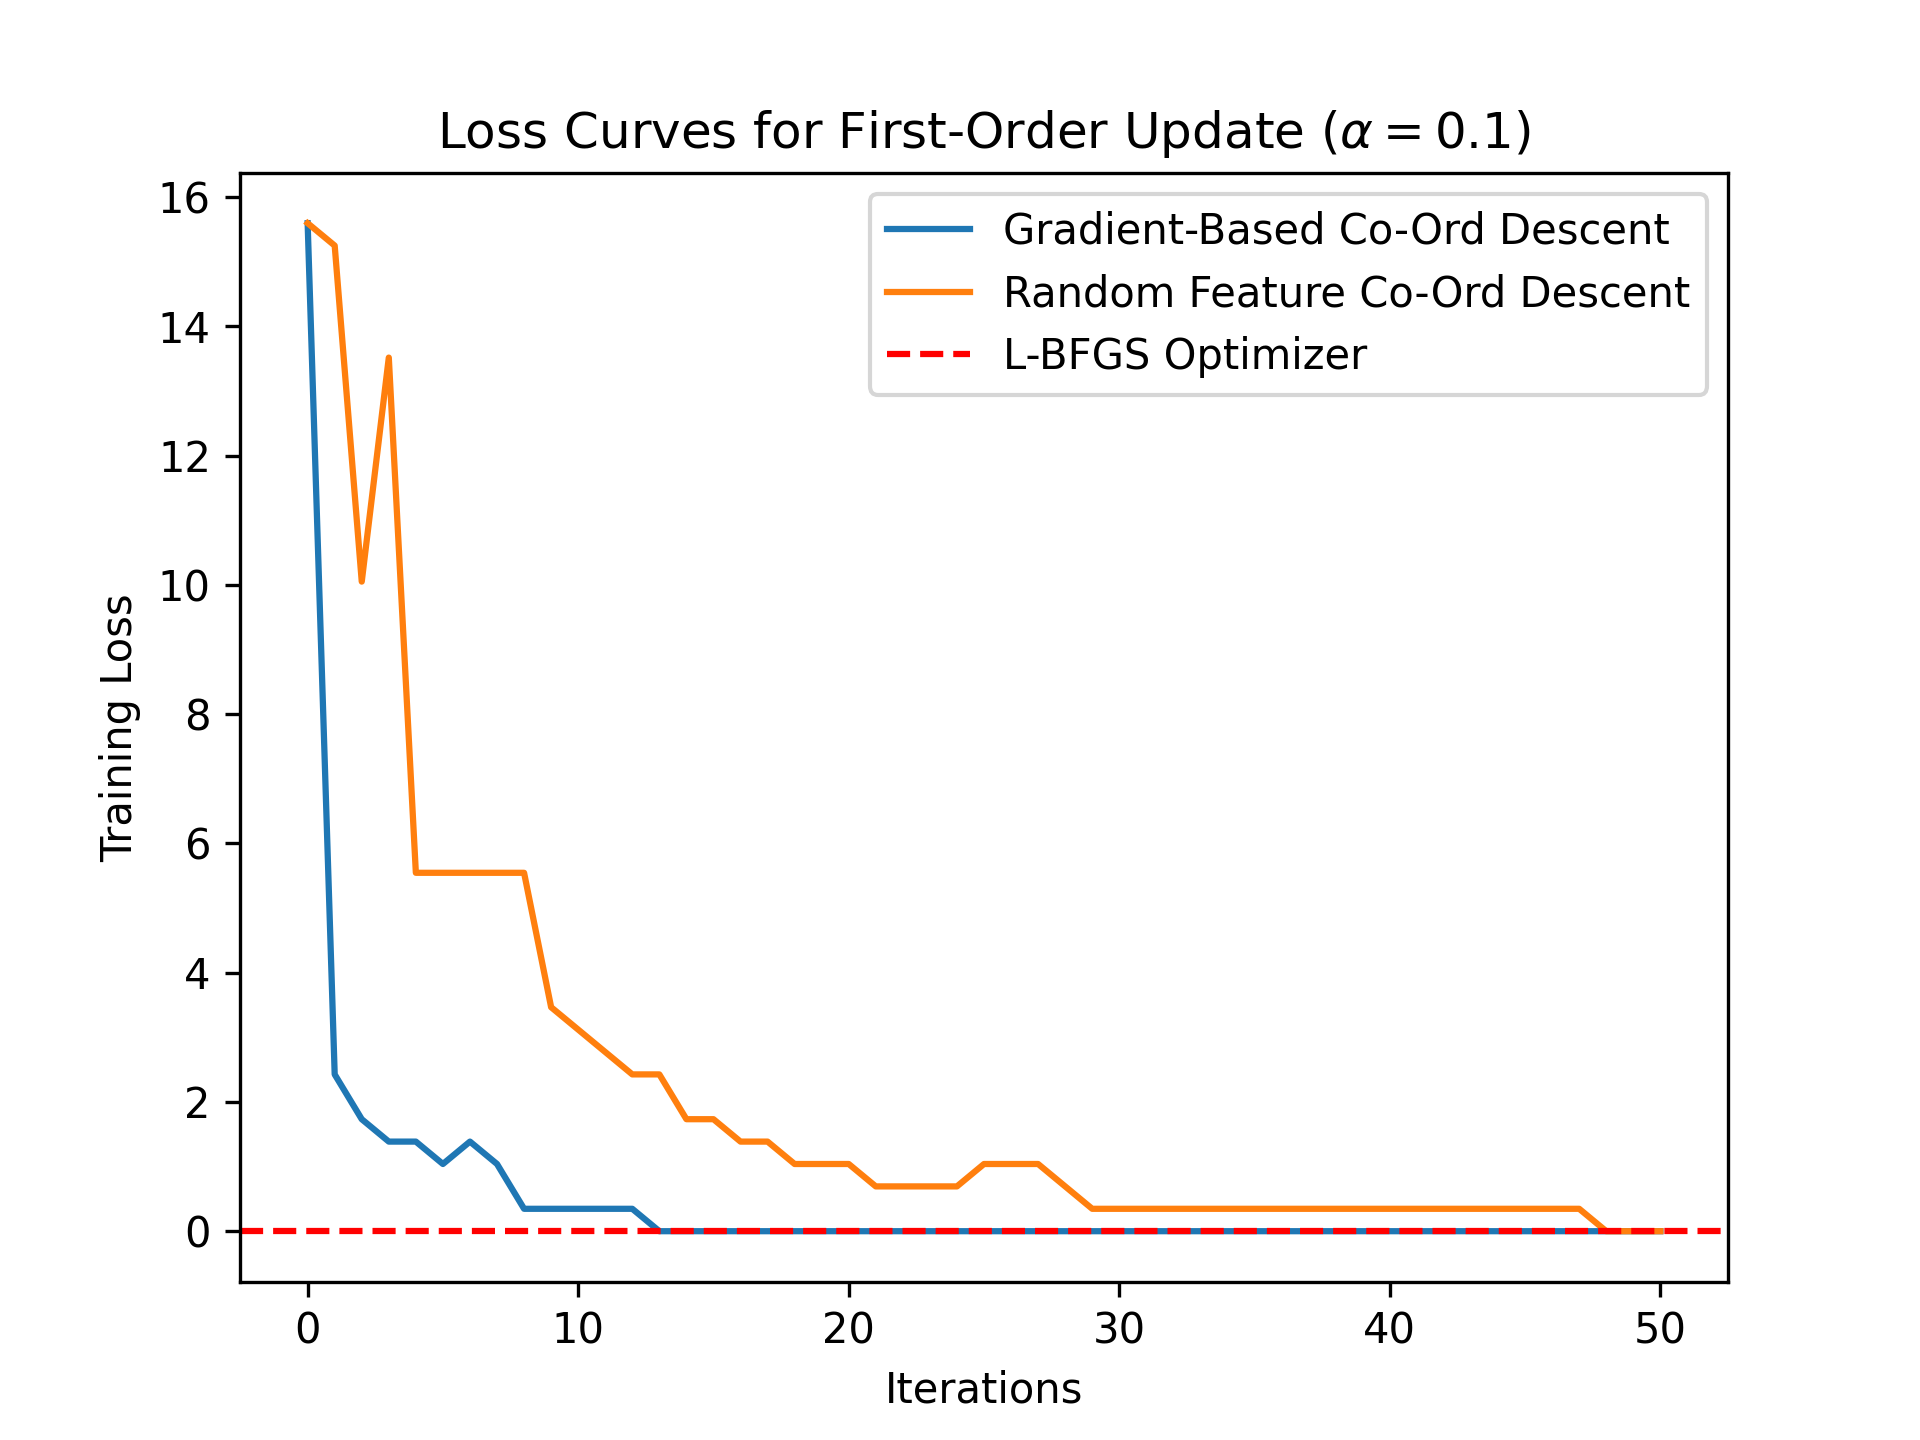
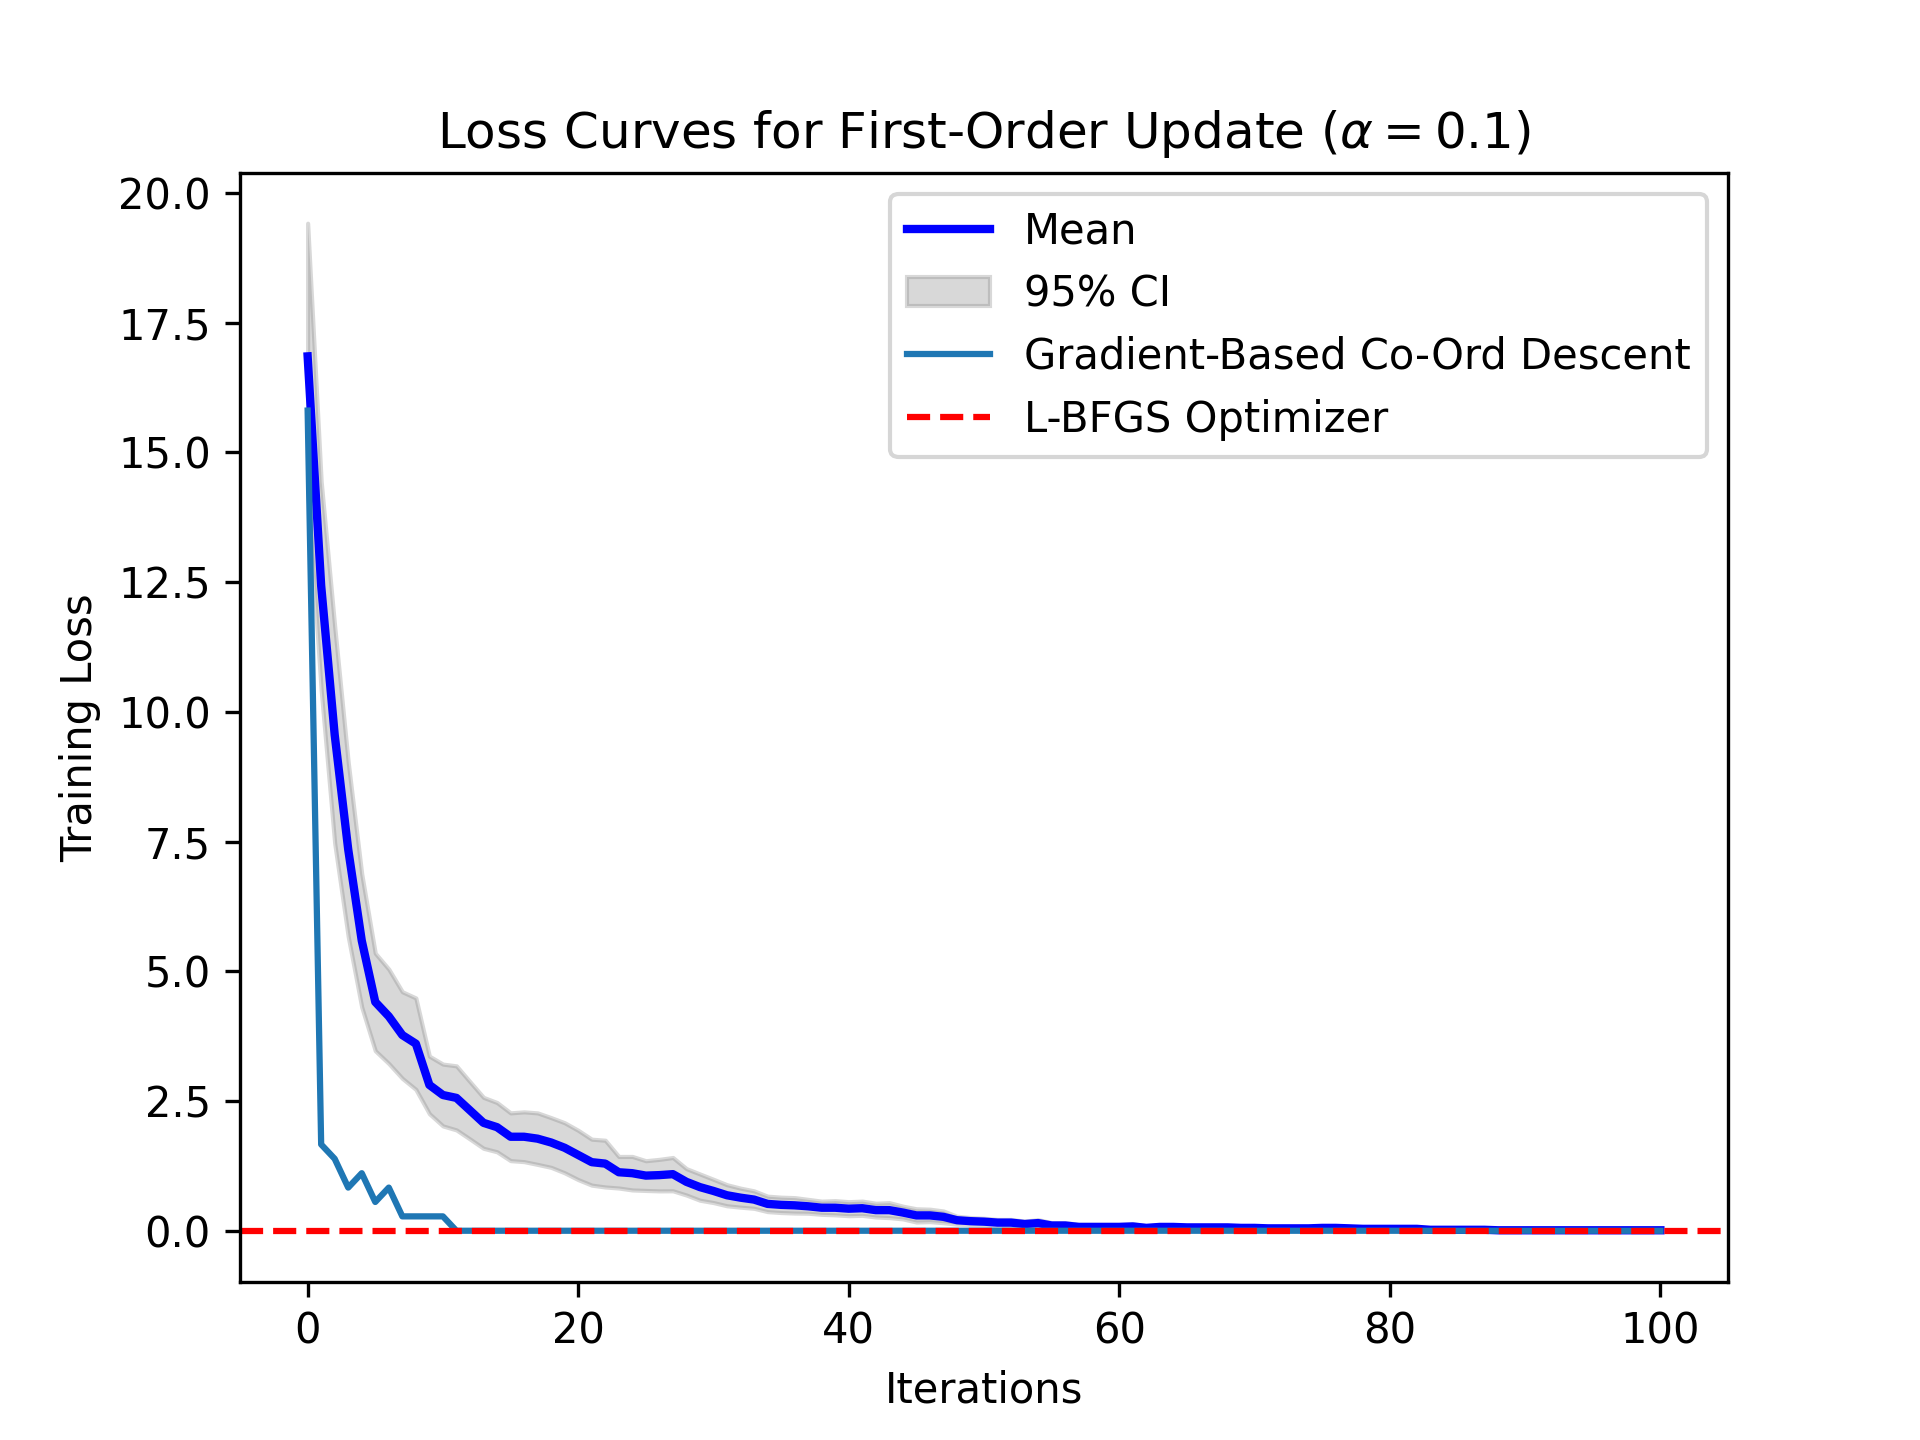
Bug fixes + added CI intervals

diff --git a/project2/model.py b/project2/model.py
@@ -1,8 +1,34 @@
 import numpy as np
 from logging import Logger
 from scipy.special import expit
+from scipy import sparse
 from sklearn.metrics import log_loss
 
+def calculate_stable_hessian(X, y_hat, eps=1e-15):
+    # Clip probabilities to prevent numerical instability
+    y_hat_clipped = np.clip(y_hat, eps, 1 - eps)
+    
+    # Calculate weights (diagonal terms)
+    weights = y_hat_clipped * (1 - y_hat_clipped)
+    
+    # Ensure weights are positive and not too close to zero
+    weights = np.maximum(weights, eps)
+    
+    # Method 1: Using np.einsum for better numerical precision
+    hessian = np.einsum('ji,j,jk->ik', X, weights, X)
+    
+    # Alternative Method 2: Using sparse diagonal matrix if data is large
+    
+    W = sparse.diags(weights, format='csr')
+    hessian = X.T @ W @ X
+    
+    return hessian
+
+# Example usage:
+"""
+# Assuming X_train and y_hat are your training data and predictions:
+hessian = calculate_stable_hessian(X_train, y_hat)
+"""
 
 class CDLogisticRegressor:
     """
@@ -13,23 +39,20 @@ class CDLogisticRegressor:
         self,
         X_train: np.ndarray,
         y_train: np.ndarray,
-        X_test: np.ndarray,
-        y_test: np.ndarray,
         logger: Logger,
         alpha: float = 0.5,
         n_iter: int = 100,
         wt_update: str = "newton",
+        seed:int = 42
     ):
         """
         Implement logistic regression using co-ordinate descent to optimize the loss
         """
-        np.random.seed(42)
+        np.random.seed(seed)
         self.d = X_train.shape[-1]  # dimensionality of the model
         self.w = np.random.normal(0, 0.1, self.d)
         self.X_train = X_train
         self.y_train = y_train
-        self.X_test = X_test
-        self.y_test = y_test
         self.logger = logger
         self.alpha = alpha
         self.n_iter = n_iter
@@ -58,7 +81,7 @@ class CDLogisticRegressor:
         )
         
         # Second order derivative of the loss function
-        self.hessian = self.X_train.T @ np.diag(y_hat * (1 - y_hat)) @ self.X_train
+        self.hessian = calculate_stable_hessian(self.X_train, y_hat) 
 
         idx = self.select_feature()
 
@@ -66,26 +89,17 @@ class CDLogisticRegressor:
         if self.wt_update == "newton":
             self.w[idx] -=  (np.linalg.inv(self.hessian) @ self.gradients)[idx]
         elif self.wt_update == "gd":
-            self.logger.info(f"Using alpha= {self.alpha}")
+            # self.logger.info(f"Using alpha= {self.alpha}")
             self.w[idx] -= self.alpha * self.gradients[idx]
 
     def learn(self):
         losses = [self.loss(self.X_train, self.y_train)]
-        self.logger.info(f"STARTING LOSS: {losses[0]}")
+        # self.logger.info(f"STARTING LOSS: {losses[0]}")
         for i in range(self.n_iter):
             self.update_weights()
             loss = self.loss(self.X_train, self.y_train)
             losses.append(loss)
-            if (i + 1) % 10 == 0:
-                self.logger.info(f"Loss at iteration {i} : {loss}")
         return losses
-
-    def predict(self):
-        return np.where(expit(self.X_test @ self.w) >= 0.5, 1, 0)
-
-    def accuracy(self):
-        y_hat = self.predict()
-        return np.mean(y_hat == self.y_test)
 
 
 class RandomFeatureModel(CDLogisticRegressor):
@@ -97,17 +111,16 @@ class RandomFeatureModel(CDLogisticRegressor):
         self,
         X_train: np.ndarray,
         y_train: np.ndarray,
-        X_test: np.ndarray,
-        y_test: np.ndarray,
         logger: Logger,
         n_iter: int = 100,
         wt_update: str = "newton",
         alpha: float = 0.5,
+        seed: int = 42
     ):
         """
         Implement logistic regression using co-ordinate descent to optimize the loss
         """
-        super().__init__(X_train, y_train, X_test, y_test, logger, alpha=alpha, n_iter=n_iter, wt_update=wt_update)
+        super().__init__(X_train, y_train, logger, alpha=alpha, n_iter=n_iter, wt_update=wt_update, seed=seed)
 
     def select_feature(self):
         return np.random.randint(0, self.d)
@@ -118,14 +131,13 @@ class CustomModel(CDLogisticRegressor):
         self,
         X_train: np.ndarray,
         y_train: np.ndarray,
-        X_test: np.ndarray,
-        y_test: np.ndarray,
         logger: Logger,
         n_iter: int,
         wt_update: str,
         alpha: float = 0.5,
+        seed: int = 42
     ):
-        super().__init__(X_train, y_train, X_test, y_test, logger, alpha=alpha, n_iter=n_iter, wt_update=wt_update)
+        super().__init__(X_train, y_train,logger, alpha=alpha, n_iter=n_iter, wt_update=wt_update, seed=seed)
 
     def select_feature(self):
         """

diff --git a/project2/main.py b/project2/main.py
@@ -5,6 +5,10 @@ import sys
 from baseline import BaselineModel
 from model import RandomFeatureModel, CustomModel
 import matplotlib.pyplot as plt
+import numpy as np
+from scipy import stats
+
+plt.set_loglevel("warning")
 
 root = logging.getLogger()
 root.setLevel(logging.DEBUG)
@@ -25,7 +29,7 @@ test_cases = [
 
 loader = WineDataLoader(DATASET_URL, DATASET_DIR, scale=True)
 
-X_train, y_train, X_test, y_test = loader.load_data()
+X_train, y_train = loader.load_data()
 
 root.info("Training standard LogisticRegression Model")
 
@@ -35,21 +39,49 @@ L_star = baseline.fit(X_train, y_train)
 
 root.info(f"Baseline Model - Train Loss: {L_star}")
 
+seeds = np.random.randint(0, 100, 30)
 
 for i, tc in enumerate(test_cases):
     plt.figure()
     wt_update, alpha = tc
-    model = CustomModel(X_train, y_train, X_test, y_test, root, n_iter=50, wt_update=wt_update, alpha=alpha)
+    model = CustomModel(X_train, y_train, root, n_iter=100, wt_update=wt_update, alpha=alpha)
     l1 = model.learn()
-    model = RandomFeatureModel(X_train, y_train, X_test, y_test, root, n_iter=50, wt_update=wt_update, alpha=alpha)
-    l2 = model.learn()
+    
+    loss_data = list()
+    for j in range(30):
+        model = RandomFeatureModel(X_train, y_train, root, n_iter=100, wt_update=wt_update, alpha=alpha, seed=seeds[j])
+        l2 = model.learn()
+        loss_data.append(l2)
+    data = np.array(loss_data)
+    
+    # Calculate means for each position
+    confidence = 0.95
+    
+    # Calculate confidence intervals
+    mean_loss_random = np.mean(loss_data, axis=0)
+    std_loss_random = np.std(loss_data, axis=0)
+    stderr_loss_random = std_loss_random / np.sqrt(30)
+    confidence_interval = 1.96 * stderr_loss_random  # 95% confidence interval
+
+    ci_array = np.array(confidence_interval)
+    # lower_bound = ci_array[:, 0]
+    # upper_bound = ci_array[:, 1]
+
+    x = range(len(mean_loss_random))
+    
+    # Plot mean line
+    plt.plot(x, mean_loss_random, 'b-', label='Mean', linewidth=2)
+    
+    # Plot confidence interval
+    plt.fill_between(range(101), mean_loss_random - confidence_interval, 
+                 mean_loss_random + confidence_interval, color='gray', alpha=0.3, label='95% CI')
+
     if wt_update == 'newton':
         title = "Loss Curves for Newton Update"
     else:
         title = rf"Loss Curves for First-Order Update ($\alpha = {alpha}$)"
 
     plt.plot(l1, label="Gradient-Based Co-Ord Descent")
-    plt.plot(l2, label="Random Feature Co-Ord Descent")
     plt.xlabel("Iterations")
     plt.ylabel("Training Loss")
     # Add a dotted line at the value of L_star

diff --git a/project2/dataloader.py b/project2/dataloader.py
@@ -8,14 +8,13 @@ from sklearn.preprocessing import StandardScaler
 from sklearn.model_selection import train_test_split
 
 class WineDataLoader:
-    def __init__(self, dataset_url, dataset_dir="dataset", scale=True, test_ratio=0.2):
+    def __init__(self, dataset_url, dataset_dir="dataset", scale=True):
 
         self.dataset_url = dataset_url
         self.dataset_dir = dataset_dir
         self.zip_path = f"{self.dataset_dir}/wine.zip"
         self.datafile_path = f"{self.dataset_dir}/wine.data"
         self.scale = scale
-        self.test_ratio = test_ratio
 
     def download_file(self):
         # NOTE the stream=True parameter
@@ -63,17 +62,9 @@ class WineDataLoader:
         
         # Shuffle rows to avoid 1 and 0 examples being clustered together
         df = df.sample(frac=1).reset_index(drop=True)
-        
-        df_train, df_test = train_test_split(df, test_size=self.test_ratio, random_state=42)
 
-        print(df_train.shape, df_test.shape)
+        N = df.shape[0]
+        X_train = np.hstack((np.ones(N).reshape(-1, 1), df.iloc[:, 1:].to_numpy()))
+        y_train = df["label"]
 
-        N = df_train.shape[0]
-        X_train = np.hstack((np.ones(N).reshape(-1, 1), df_train.iloc[:, 1:].to_numpy()))
-        y_train = df_train["label"]
-
-        N = df_test.shape[0]
-        X_test = np.hstack((np.ones(N).reshape(-1, 1), df_test.iloc[:, 1:].to_numpy()))
-        y_test = df_test["label"]
-
-        return X_train, y_train, X_test, y_test
+        return X_train, y_train
